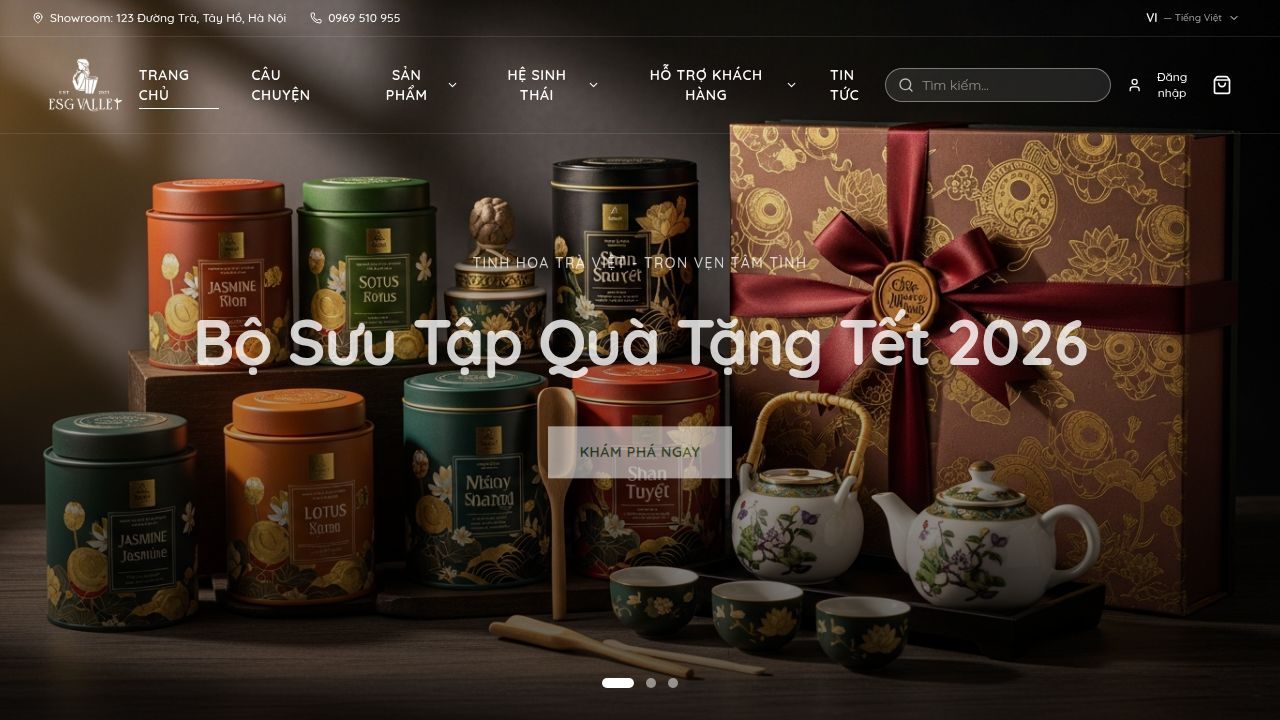
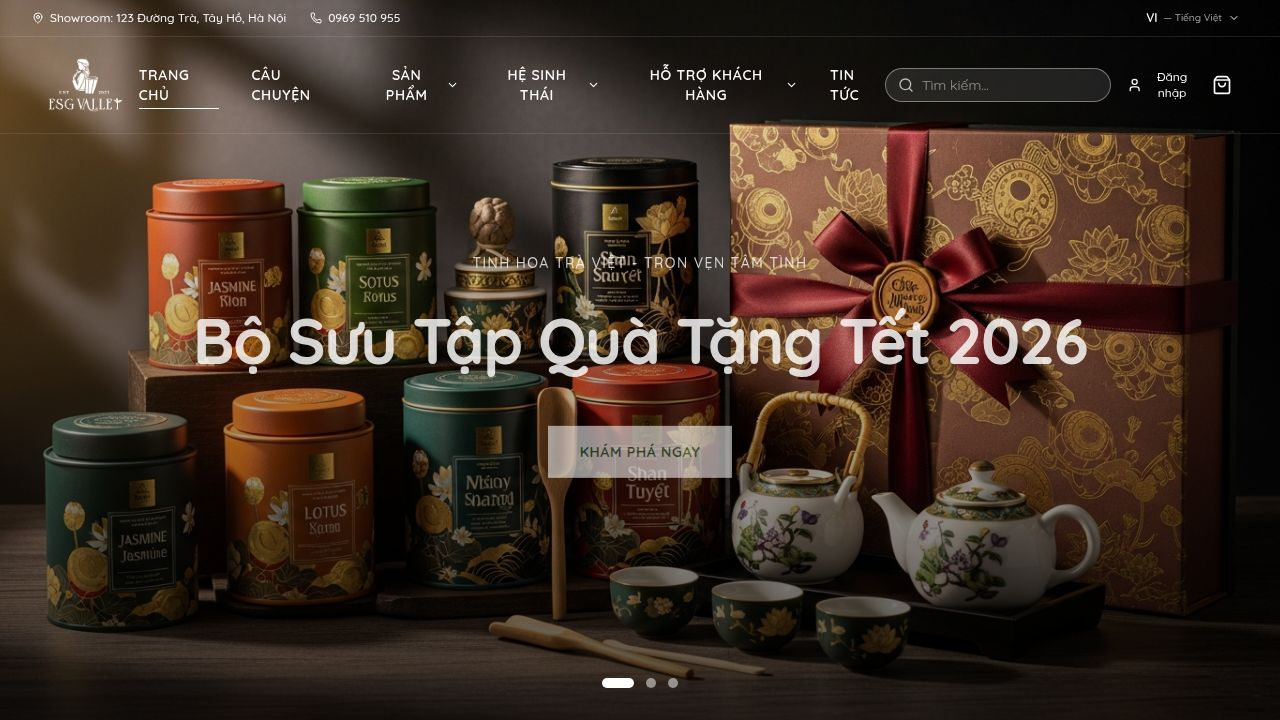
Add links to external articles and image drives at the end of news posts
Update data structure to include `sourceUrl` for news articles and modify the NewsDetail component to conditionally render a button linking to the `sourceUrl`, dynamically changing its appearance and text based on the URL's domain.

Replit-Commit-Author: Agent
Replit-Commit-Session-Id: b6cbccfc-1437-4b4d-ab97-5b8758180aeb
Replit-Commit-Checkpoint-Type: full_checkpoint
Replit-Commit-Event-Id: be6fc535-1c6f-4b54-b364-f1468ea6c6ae
Replit-Commit-Screenshot-Url: https://storage.googleapis.com/screenshot-production-us-central1/b2acf825-3000-41ab-89c8-11b740048c9a/b6cbccfc-1437-4b4d-ab97-5b8758180aeb/OwcyWan
Replit-Helium-Checkpoint-Created: true

diff --git a/artifacts/esg-valley/src/lib/data.ts b/artifacts/esg-valley/src/lib/data.ts
@@ -5,6 +5,18 @@ export interface ProductStory {
   imagePosition?: "left" | "right";
 }
 
+export interface NewsArticle {
+  id: number;
+  slug: string;
+  title: string;
+  date: string;
+  category: string;
+  excerpt: string;
+  image: string;
+  content?: string;
+  sourceUrl?: string;
+}
+
 export interface Product {
   id: number;
   name: string;
@@ -420,7 +432,7 @@ export const products: Product[] = [
   }
 ];
 
-export const news = [
+export const news: NewsArticle[] = [
   {
     id: 1,
     slug: "che-shan-tuyet-bang-phuc-lang-nghe",
@@ -429,7 +441,8 @@ export const news = [
     category: "Bền Vững",
     excerpt: "Xã Đồng Phúc (Thái Nguyên) vừa chính thức đón nhận quyết định công nhận Làng nghề chè Shan tuyết Bằng Phúc – vùng nguyên liệu trọng điểm của ESGValley.",
     image: "https://images.unsplash.com/photo-1587734195503-904fca47e0e9?auto=format&fit=crop&q=80&w=1200",
-    content: `Chúc mừng xã Đồng Phúc (Thái Nguyên) vừa chính thức đón nhận quyết định công nhận Làng nghề chè Shan tuyết Bằng Phúc.\n\nNằm trong danh sách "ngũ đại danh trà" nức tiếng của Thái Nguyên, chè Shan tuyết Bằng Phúc không chỉ là một sản phẩm nông nghiệp mà còn là di sản văn hóa với những gốc trà cổ thụ hàng trăm năm tuổi, thấm đượm tinh hoa đất trời.\n\nĐây cũng chính là vùng nguyên liệu trọng điểm mà ESGValley đang tập trung nghiên cứu và phát triển. Với định hướng phát triển bền vững (ESG), chúng tôi tin rằng việc nâng tầm giá trị trà Shan tuyết không chỉ dừng lại ở chất lượng chén trà, mà còn là câu chuyện bảo tồn hệ sinh thái và nâng cao sinh kế cho bà con địa phương.\n\nCùng ESGValley chờ đón những bước tiến mới cho đặc sản trà Shan tuyết Bằng Phúc vươn xa hơn trên bản đồ trà thế giới!`
+    content: `Chúc mừng xã Đồng Phúc (Thái Nguyên) vừa chính thức đón nhận quyết định công nhận Làng nghề chè Shan tuyết Bằng Phúc.\n\nNằm trong danh sách "ngũ đại danh trà" nức tiếng của Thái Nguyên, chè Shan tuyết Bằng Phúc không chỉ là một sản phẩm nông nghiệp mà còn là di sản văn hóa với những gốc trà cổ thụ hàng trăm năm tuổi, thấm đượm tinh hoa đất trời.\n\nĐây cũng chính là vùng nguyên liệu trọng điểm mà ESGValley đang tập trung nghiên cứu và phát triển. Với định hướng phát triển bền vững (ESG), chúng tôi tin rằng việc nâng tầm giá trị trà Shan tuyết không chỉ dừng lại ở chất lượng chén trà, mà còn là câu chuyện bảo tồn hệ sinh thái và nâng cao sinh kế cho bà con địa phương.\n\nCùng ESGValley chờ đón những bước tiến mới cho đặc sản trà Shan tuyết Bằng Phúc vươn xa hơn trên bản đồ trà thế giới!`,
+    sourceUrl: "https://drive.google.com/drive/folders/1PXENehKDGH7jTDn1pv78iNRkl7Ui6F7W?usp=drive_link"
   },
   {
     id: 2,
@@ -439,7 +452,8 @@ export const news = [
     category: "Cộng Đồng",
     excerpt: "ESG Valley phối hợp cùng UBND xã Đồng Phúc tổ chức chương trình thiện nguyện \"Sữa Kun cho em\", trao tặng 400 thùng sữa đến 7 điểm trường trên địa bàn.",
     image: "https://images.unsplash.com/photo-1542838132-92c53300491e?auto=format&fit=crop&q=80&w=1200",
-    content: `Vừa qua, ESG Valley đã phối hợp cùng UBND xã Đồng Phúc và các đơn vị đồng hành tổ chức chương trình thiện nguyện đầy ý nghĩa mang tên "Sữa Kun cho em". Trong khuôn khổ chương trình, đoàn đã tận tay trao tặng 400 thùng sữa đến các em nhỏ tại 7 điểm trường Mầm non và Tiểu học trên địa bàn xã Đồng Phúc, Thái Nguyên.\n\nĐây không chỉ là món quà về vật chất mà còn là sự chia sẻ, đồng hành của ESG Valley cùng cộng đồng trong việc chăm sóc sức khỏe và dinh dưỡng cho trẻ em vùng cao. Hy vọng những ly sữa ngọt ngào sẽ tiếp thêm năng lượng, giúp các em vui bước đến trường.\n\nHoạt động này càng trở nên ý nghĩa hơn khi Đồng Phúc không chỉ là điểm dừng chân thiện nguyện mà còn là vùng nguyên liệu trọng điểm đang được ESGValley tập trung nghiên cứu và phát triển dòng sản phẩm Chè Shan Tuyết.\n\nCông ty Cổ phần Chè Quân Chu chân thành cảm ơn chính quyền địa phương và các đối tác đã cùng chung tay để chuyến xe yêu thương này cập bến thành công!`
+    content: `Vừa qua, ESG Valley đã phối hợp cùng UBND xã Đồng Phúc và các đơn vị đồng hành tổ chức chương trình thiện nguyện đầy ý nghĩa mang tên "Sữa Kun cho em". Trong khuôn khổ chương trình, đoàn đã tận tay trao tặng 400 thùng sữa đến các em nhỏ tại 7 điểm trường Mầm non và Tiểu học trên địa bàn xã Đồng Phúc, Thái Nguyên.\n\nĐây không chỉ là món quà về vật chất mà còn là sự chia sẻ, đồng hành của ESG Valley cùng cộng đồng trong việc chăm sóc sức khỏe và dinh dưỡng cho trẻ em vùng cao. Hy vọng những ly sữa ngọt ngào sẽ tiếp thêm năng lượng, giúp các em vui bước đến trường.\n\nHoạt động này càng trở nên ý nghĩa hơn khi Đồng Phúc không chỉ là điểm dừng chân thiện nguyện mà còn là vùng nguyên liệu trọng điểm đang được ESGValley tập trung nghiên cứu và phát triển dòng sản phẩm Chè Shan Tuyết.\n\nCông ty Cổ phần Chè Quân Chu chân thành cảm ơn chính quyền địa phương và các đối tác đã cùng chung tay để chuyến xe yêu thương này cập bến thành công!`,
+    sourceUrl: "https://drive.google.com/drive/folders/1zkAlxroYL3uiVLM_SL18RuFQX5KdUNyy"
   },
   {
     id: 3,
@@ -449,7 +463,8 @@ export const news = [
     category: "Sự Kiện",
     excerpt: "Hội nghị \"Doanh nghiệp góp phần vào tăng trưởng hai con số\" ghi dấu sự gắn kết giữa Chính phủ và cộng đồng doanh nhân, với sự tham dự của Chủ tịch HĐQT Công ty Cổ phần Chè Quân Chu.",
     image: "https://images.unsplash.com/photo-1559136555-9303baea8ebd?auto=format&fit=crop&q=80&w=1200",
-    content: `Hội nghị "Doanh nghiệp góp phần vào tăng trưởng hai con số và Thủ tướng Chính phủ tri ân doanh nghiệp" ngày 27/3 ghi dấu sự gắn kết giữa Chính phủ và cộng đồng doanh nhân.\n\nTại sự kiện, Bà Nguyễn Thị Vinh – Chủ tịch Hội nữ doanh nhân tỉnh Thái Nguyên, Chủ tịch HĐQT Công ty Cổ phần Chè Quân Chu đã tham dự cùng nhiều lãnh đạo doanh nghiệp tiêu biểu cả nước, thể hiện quyết tâm đưa kinh tế Việt Nam vươn xa.`
+    content: `Hội nghị "Doanh nghiệp góp phần vào tăng trưởng hai con số và Thủ tướng Chính phủ tri ân doanh nghiệp" ngày 27/3 ghi dấu sự gắn kết giữa Chính phủ và cộng đồng doanh nhân.\n\nTại sự kiện, Bà Nguyễn Thị Vinh – Chủ tịch Hội nữ doanh nhân tỉnh Thái Nguyên, Chủ tịch HĐQT Công ty Cổ phần Chè Quân Chu đã tham dự cùng nhiều lãnh đạo doanh nghiệp tiêu biểu cả nước, thể hiện quyết tâm đưa kinh tế Việt Nam vươn xa.`,
+    sourceUrl: "https://baochinhphu.vn/tang-toc-khoi-nghiep-doanh-nghiep-tro-thanh-tru-cot-tang-truong-10226032711072608.htm"
   },
   {
     id: 4,
@@ -459,7 +474,8 @@ export const news = [
     category: "Bền Vững",
     excerpt: "Nằm ở độ cao hơn 1.200m, những gốc chè Shan tuyết cổ thụ hàng trăm năm tuổi tại xã Đồng Phúc là \"kho báu\" xanh mà ESGValley đang tập trung nghiên cứu.",
     image: "https://images.unsplash.com/photo-1558160074-4d7d8bdf4256?auto=format&fit=crop&q=80&w=1200",
-    content: `Nằm ở độ cao hơn 1.200m, những gốc chè Shan tuyết cổ thụ hàng trăm năm tuổi tại xã Đồng Phúc, Thái Nguyên chính là "kho báu" xanh mà ESGValley đang tập trung nghiên cứu.\n\nĐây không chỉ là vùng nguyên liệu sạch, thuần khiết mà còn là trọng tâm trong chiến lược phát triển nông nghiệp bền vững và bảo tồn giá trị di sản của chúng tôi.`
+    content: `Nằm ở độ cao hơn 1.200m, những gốc chè Shan tuyết cổ thụ hàng trăm năm tuổi tại xã Đồng Phúc, Thái Nguyên chính là "kho báu" xanh mà ESGValley đang tập trung nghiên cứu.\n\nĐây không chỉ là vùng nguyên liệu sạch, thuần khiết mà còn là trọng tâm trong chiến lược phát triển nông nghiệp bền vững và bảo tồn giá trị di sản của chúng tôi.`,
+    sourceUrl: "https://drive.google.com/drive/folders/1rliZFw7um-oEj85Mbu7h4depZdQFJUjh?usp=drive_link"
   },
   {
     id: 5,
@@ -469,7 +485,8 @@ export const news = [
     category: "Văn Hóa",
     excerpt: "Nghệ thuật thưởng Trà không chỉ là việc giải khát – đó là sự hội tụ của kỹ năng pha chế tinh xảo và những triết lý nhân sinh sâu sắc.",
     image: "https://images.unsplash.com/photo-1564890369478-c89ca6d9cde9?auto=format&fit=crop&q=80&w=1200",
-    content: `Bạn có biết tại sao thưởng Trà lại trở thành một môn nghệ thuật đặc biệt không? Bởi nó không chỉ đơn thuần là việc giải khát, mà là sự hội tụ của kỹ năng pha chế tinh xảo, thẩm mỹ Trà cụ và những triết lý nhân sinh sâu sắc.\n\nNghệ thuật thưởng Trà bắt đầu từ việc lựa chọn những nguyên liệu tốt nhất. Người xưa đúc kết quy tắc "Nhất thủy - Nhì Trà - Tam pha - Tứ ấm" để tạo ra một chén Trà hoàn hảo.\n\nNước pha Trà: Phải là nước tinh khiết, lý tưởng nhất là nước suối đầu nguồn hoặc nước sương đọng trên lá sen buổi sớm.\n\nLựa chọn loại trà: Cánh Trà khô phải săn chắc, nhỏ gọn, đều màu. Khi pha ra phải có vị chát dịu đầu lưỡi và hậu ngọt sâu.\n\nKỹ thuật pha: Người pha trà phải khéo léo kiểm soát nhiệt độ nước và thời gian hãm Trà để chiết xuất được hương vị tinh túy nhất.\n\nTrà cụ: Các bộ ấm, chén không chỉ là dụng cụ mà còn là tác phẩm điêu khắc, hội họa.\n\nTại ESGValley, chúng tôi không chỉ trân trọng những giá trị tinh túy của Trà, mà còn khát khao trở thành cầu nối đưa di sản văn hóa Trà vươn xa, gắn kết con người qua từng tách trà nồng đượm.`
+    content: `Bạn có biết tại sao thưởng Trà lại trở thành một môn nghệ thuật đặc biệt không? Bởi nó không chỉ đơn thuần là việc giải khát, mà là sự hội tụ của kỹ năng pha chế tinh xảo, thẩm mỹ Trà cụ và những triết lý nhân sinh sâu sắc.\n\nNghệ thuật thưởng Trà bắt đầu từ việc lựa chọn những nguyên liệu tốt nhất. Người xưa đúc kết quy tắc "Nhất thủy - Nhì Trà - Tam pha - Tứ ấm" để tạo ra một chén Trà hoàn hảo.\n\nNước pha Trà: Phải là nước tinh khiết, lý tưởng nhất là nước suối đầu nguồn hoặc nước sương đọng trên lá sen buổi sớm.\n\nLựa chọn loại trà: Cánh Trà khô phải săn chắc, nhỏ gọn, đều màu. Khi pha ra phải có vị chát dịu đầu lưỡi và hậu ngọt sâu.\n\nKỹ thuật pha: Người pha trà phải khéo léo kiểm soát nhiệt độ nước và thời gian hãm Trà để chiết xuất được hương vị tinh túy nhất.\n\nTrà cụ: Các bộ ấm, chén không chỉ là dụng cụ mà còn là tác phẩm điêu khắc, hội họa.\n\nTại ESGValley, chúng tôi không chỉ trân trọng những giá trị tinh túy của Trà, mà còn khát khao trở thành cầu nối đưa di sản văn hóa Trà vươn xa, gắn kết con người qua từng tách trà nồng đượm.`,
+    sourceUrl: "https://drive.google.com/drive/folders/1UVMu6ClmUK7doaKmn0W3-NhQPRim68uK?usp=drive_link"
   },
   {
     id: 6,
@@ -479,7 +496,8 @@ export const news = [
     category: "Bền Vững",
     excerpt: "ESGValley lựa chọn thời điểm xuân về để xuống giống cây chè – tận dụng tối đa sự giao thoa tuyệt vời của tiết trời, thuận theo tự nhiên và tiết kiệm nguồn lực.",
     image: "/images/su-kien.jpg",
-    content: `ESGValley lựa chọn thời điểm này để bắt đầu xuống giống cây chè với mong muốn tận dụng tối đa sự giao thoa tuyệt vời của tiết trời xuân. Đây không chỉ là việc trồng cây, mà là sự tính toán kỹ lưỡng để:\n\nThuận theo tự nhiên: Độ ẩm và nhiệt độ lý tưởng của mùa xuân giúp cây chè bén rễ nhanh, tỷ lệ sống cao nhất.\n\nTiết kiệm nguồn lực: Giảm thiểu tối đa việc tưới tiêu nhân tạo, tận dụng nguồn nước mưa tự nhiên – đúng tinh thần canh tác bền vững.\n\nKhởi đầu vững chắc: Tạo nền tảng cho những búp chè đạt tiêu chuẩn chất lượng cao nhất trong tương lai.\n\nMỗi mầm xanh xuống đất hôm nay là một cam kết của ESGValley cho một hệ sinh thái nông nghiệp xanh và bền bỉ!`
+    content: `ESGValley lựa chọn thời điểm này để bắt đầu xuống giống cây chè với mong muốn tận dụng tối đa sự giao thoa tuyệt vời của tiết trời xuân. Đây không chỉ là việc trồng cây, mà là sự tính toán kỹ lưỡng để:\n\nThuận theo tự nhiên: Độ ẩm và nhiệt độ lý tưởng của mùa xuân giúp cây chè bén rễ nhanh, tỷ lệ sống cao nhất.\n\nTiết kiệm nguồn lực: Giảm thiểu tối đa việc tưới tiêu nhân tạo, tận dụng nguồn nước mưa tự nhiên – đúng tinh thần canh tác bền vững.\n\nKhởi đầu vững chắc: Tạo nền tảng cho những búp chè đạt tiêu chuẩn chất lượng cao nhất trong tương lai.\n\nMỗi mầm xanh xuống đất hôm nay là một cam kết của ESGValley cho một hệ sinh thái nông nghiệp xanh và bền bỉ!`,
+    sourceUrl: "https://drive.google.com/drive/folders/1UVMu6ClmUK7doaKmn0W3-NhQPRim68uK?usp=drive_link"
   },
   {
     id: 7,
@@ -489,7 +507,8 @@ export const news = [
     category: "Bền Vững",
     excerpt: "Công ty Cổ phần Chè Quân Chu hoàn tất xuống giống cho vùng chè đầu tiên – cột mốc trong lộ trình bảo tồn và nâng tầm giá trị Trà gắn liền với phát triển du lịch bền vững.",
     image: "/images/su-kien.jpg",
-    content: `Công ty Cổ phần Chè Quân Chu vừa hoàn tất công đoạn xuống giống cho vùng chè đầu tiên - một cột mốc quan trọng trong lộ trình bảo tồn và nâng tầm giá trị Trà gắn liền với phát triển du lịch bền vững tại xã Quân Chu, Thái Nguyên.\n\nTại sao chúng tôi chọn sự "tỉ mỉ" làm kim chỉ nam?\n\nGìn giữ nguyên bản: Bảo tồn những giá trị văn hóa Trà truyền thống trước làn sóng công nghiệp hóa.\n\nQuy trình chuẩn mực: Mỗi hố trồng, mỗi bầu cây đều được thực hiện dưới sự giám sát kỹ thuật khắt khe, hướng tới tiêu chuẩn chất lượng cao nhất.\n\nHệ sinh thái Du lịch - Trà: Biến những đồi chè thành điểm đến văn hóa, nơi mỗi nhấp trà đều kể một câu chuyện về sự chăm sóc tận tâm.\n\nESGValley tin rằng, chỉ có sự đầu tư nghiêm túc và trân trọng Di sản mới có thể đưa cây chè vươn xa, không chỉ trên bản đồ nông sản mà còn là điểm sáng trên bản đồ du lịch.`
+    content: `Công ty Cổ phần Chè Quân Chu vừa hoàn tất công đoạn xuống giống cho vùng chè đầu tiên - một cột mốc quan trọng trong lộ trình bảo tồn và nâng tầm giá trị Trà gắn liền với phát triển du lịch bền vững tại xã Quân Chu, Thái Nguyên.\n\nTại sao chúng tôi chọn sự "tỉ mỉ" làm kim chỉ nam?\n\nGìn giữ nguyên bản: Bảo tồn những giá trị văn hóa Trà truyền thống trước làn sóng công nghiệp hóa.\n\nQuy trình chuẩn mực: Mỗi hố trồng, mỗi bầu cây đều được thực hiện dưới sự giám sát kỹ thuật khắt khe, hướng tới tiêu chuẩn chất lượng cao nhất.\n\nHệ sinh thái Du lịch - Trà: Biến những đồi chè thành điểm đến văn hóa, nơi mỗi nhấp trà đều kể một câu chuyện về sự chăm sóc tận tâm.\n\nESGValley tin rằng, chỉ có sự đầu tư nghiêm túc và trân trọng Di sản mới có thể đưa cây chè vươn xa, không chỉ trên bản đồ nông sản mà còn là điểm sáng trên bản đồ du lịch.`,
+    sourceUrl: "https://drive.google.com/drive/folders/13Sx2XOpYqBKwhjOSDYvL71V60G9FCfzo?usp=drive_link"
   },
   {
     id: 8,
@@ -499,7 +518,8 @@ export const news = [
     category: "Bền Vững",
     excerpt: "Nằm dưới chân dãy núi Tam Đảo hùng vĩ, những đồi chè ESGValley tại Phú Xuyên được tưới mát bởi nguồn nước tinh khiết – từ vùng chè đến chén Trà, một hành trình mang đậm ESG.",
     image: "https://images.unsplash.com/photo-1518495973542-4542c06a5843?auto=format&fit=crop&q=80&w=1200",
-    content: `Nằm kiêu hãnh dưới chân dãy núi Tam Đảo hùng vĩ, những đồi chè của ESGValley tại Phú Xuyên được tưới mát quanh năm bởi nguồn nước tinh khiết và trong lành. Từng búp Trà non được nuôi lớn bởi sương sớm, bởi nắng nhẹ, bởi đất lành và còn bởi sự kiên nhẫn của người trồng.\n\nĐi giữa đồi chè Phú Xuyên mới thấm thía và càng thêm tự hào về hành trình của trà Việt, của đất và người Thái Nguyên để cho ra đời những tách Trà thơm đậm vị, mộc mạc và thanh khiết.\n\nTừ vùng chè đến chén Trà - một hành trình mang đậm ESG.`
+    content: `Nằm kiêu hãnh dưới chân dãy núi Tam Đảo hùng vĩ, những đồi chè của ESGValley tại Phú Xuyên được tưới mát quanh năm bởi nguồn nước tinh khiết và trong lành. Từng búp Trà non được nuôi lớn bởi sương sớm, bởi nắng nhẹ, bởi đất lành và còn bởi sự kiên nhẫn của người trồng.\n\nĐi giữa đồi chè Phú Xuyên mới thấm thía và càng thêm tự hào về hành trình của trà Việt, của đất và người Thái Nguyên để cho ra đời những tách Trà thơm đậm vị, mộc mạc và thanh khiết.\n\nTừ vùng chè đến chén Trà - một hành trình mang đậm ESG.`,
+    sourceUrl: "https://drive.google.com/drive/folders/11XWGAnbHwB4th74Sp5k7gxjUj4c_P3S4?usp=drive_link"
   },
   {
     id: 9,
@@ -509,7 +529,8 @@ export const news = [
     category: "Sự Kiện",
     excerpt: "Ngày 11/03/2026, tại UBND xã Quân Chu diễn ra buổi làm việc thống nhất kế hoạch triển khai các dự án đầu tư phát triển vùng chè hữu cơ quy mô lớn.",
     image: "https://images.unsplash.com/photo-1513558161293-cdaf765ed2fd?auto=format&fit=crop&q=80&w=1200",
-    content: `Ngày 11/03/2026, tại UBND xã Quân Chu đã diễn ra buổi làm việc giữa lãnh đạo địa phương và đại diện Công ty Cổ phần Chè Quân Chu (đơn vị sở hữu thương hiệu ESGValley) nhằm thống nhất kế hoạch triển khai các dự án đầu tư, phát triển vùng chè trên địa bàn.\n\nTại buổi làm việc, đại diện Công ty đã báo cáo chi tiết định hướng đầu tư và lộ trình thực hiện các dự án trọng điểm. Lãnh đạo Đảng ủy, UBND xã Quân Chu đánh giá cao năng lực và tâm huyết của doanh nghiệp. Đồng thời, địa phương cam kết sẽ tạo mọi điều kiện thuận lợi về thủ tục và khảo sát thực địa để dự án sớm đi vào vận hành.\n\nViệc hợp tác chặt chẽ giữa chính quyền và doanh nghiệp là bước tiến quan trọng để hình thành vùng nguyên liệu chè hữu cơ quy mô lớn, nâng cao giá trị thương hiệu chè Quân Chu và cải thiện thu nhập bền vững cho người dân vùng dự án.`
+    content: `Ngày 11/03/2026, tại UBND xã Quân Chu đã diễn ra buổi làm việc giữa lãnh đạo địa phương và đại diện Công ty Cổ phần Chè Quân Chu (đơn vị sở hữu thương hiệu ESGValley) nhằm thống nhất kế hoạch triển khai các dự án đầu tư, phát triển vùng chè trên địa bàn.\n\nTại buổi làm việc, đại diện Công ty đã báo cáo chi tiết định hướng đầu tư và lộ trình thực hiện các dự án trọng điểm. Lãnh đạo Đảng ủy, UBND xã Quân Chu đánh giá cao năng lực và tâm huyết của doanh nghiệp. Đồng thời, địa phương cam kết sẽ tạo mọi điều kiện thuận lợi về thủ tục và khảo sát thực địa để dự án sớm đi vào vận hành.\n\nViệc hợp tác chặt chẽ giữa chính quyền và doanh nghiệp là bước tiến quan trọng để hình thành vùng nguyên liệu chè hữu cơ quy mô lớn, nâng cao giá trị thương hiệu chè Quân Chu và cải thiện thu nhập bền vững cho người dân vùng dự án.`,
+    sourceUrl: "https://drive.google.com/drive/folders/1eTTZjAXCTGxbYCfFlDSQphr-pQ08E6A8?usp=drive_link"
   },
   {
     id: 10,
@@ -519,7 +540,8 @@ export const news = [
     category: "Sự Kiện",
     excerpt: "ESGValley hân hạnh đồng hành cùng tiệc Trà Di sản tại sự kiện \"Trà sáng cùng Doanh nhân\" số đầu tiên năm 2026.",
     image: "https://images.unsplash.com/photo-1559136555-9303baea8ebd?auto=format&fit=crop&q=80&w=1200",
-    content: `ESGValley hân hạnh đồng hành cùng tiệc Trà Di sản tại sự kiện "Trà sáng cùng Doanh nhân" số đầu tiên năm 2026 – một buổi sáng kết nối văn hóa Trà và cộng đồng doanh nhân Thái Nguyên.`
+    content: `ESGValley hân hạnh đồng hành cùng tiệc Trà Di sản tại sự kiện "Trà sáng cùng Doanh nhân" số đầu tiên năm 2026 – một buổi sáng kết nối văn hóa Trà và cộng đồng doanh nhân Thái Nguyên.`,
+    sourceUrl: "https://drive.google.com/drive/folders/1tQglN4H_Jror_ke4LAXy0YXxiqeMZRCr?usp=drive_link"
   },
   {
     id: 11,
@@ -529,7 +551,8 @@ export const news = [
     category: "Sự Kiện",
     excerpt: "Tại \"Trà sáng cùng Doanh nhân\" số đầu năm 2026, ESGValley không chỉ là đơn vị đồng hành mà còn là nhà kiến tạo không gian văn hóa Trà, đưa trà Việt thành biểu tượng sang trọng trong giới doanh nhân.",
     image: "https://images.unsplash.com/photo-1564890369478-c89ca6d9cde9?auto=format&fit=crop&q=80&w=1200",
-    content: `Được tổ chức số đầu tiên năm 2026, chương trình "Trà sáng cùng Doanh nhân" với chủ đề "Quy hoạch tỉnh, phát triển đô thị" đã diễn ra trong không gian văn hóa Trà đậm nét đặc trưng của vùng đất danh trà Thái Nguyên vào sáng ngày 07/03/2026 vừa qua.\n\nTại sự kiện, ESGValley không chỉ xuất hiện với tư cách đơn vị đồng hành mà còn đóng vai trò là nhà kiến tạo không gian văn hóa, đưa trà Việt từ thức uống truyền thống trở thành biểu tượng của sự sang trọng và tinh tế trong giới Doanh nhân.\n\nTrong vai trò đơn vị đăng cai tiệc Trà Di sản, ESGValley đã mang đến nghi thức Khai trà đặc biệt với Hồng Trà Shan Tuyết Quýt cổ hữu cơ - sản phẩm nghiên cứu độc quyền của ESGValley và phục vụ xuyên suốt sự kiện với sản phẩm Mạc Triều Trà - Trà xanh hữu cơ thượng hạng.\n\nSự thành công của tiệc Trà Di sản đã chứng minh vai trò tiên phong của ESGValley trong việc định vị lại giá trị Trà Việt – không chỉ là câu chuyện về hương vị mà là chiến lược nâng tầm nông sản địa phương trở thành Đại sứ văn hóa.`
+    content: `Được tổ chức số đầu tiên năm 2026, chương trình "Trà sáng cùng Doanh nhân" với chủ đề "Quy hoạch tỉnh, phát triển đô thị" đã diễn ra trong không gian văn hóa Trà đậm nét đặc trưng của vùng đất danh trà Thái Nguyên vào sáng ngày 07/03/2026 vừa qua.\n\nTại sự kiện, ESGValley không chỉ xuất hiện với tư cách đơn vị đồng hành mà còn đóng vai trò là nhà kiến tạo không gian văn hóa, đưa trà Việt từ thức uống truyền thống trở thành biểu tượng của sự sang trọng và tinh tế trong giới Doanh nhân.\n\nTrong vai trò đơn vị đăng cai tiệc Trà Di sản, ESGValley đã mang đến nghi thức Khai trà đặc biệt với Hồng Trà Shan Tuyết Quýt cổ hữu cơ - sản phẩm nghiên cứu độc quyền của ESGValley và phục vụ xuyên suốt sự kiện với sản phẩm Mạc Triều Trà - Trà xanh hữu cơ thượng hạng.\n\nSự thành công của tiệc Trà Di sản đã chứng minh vai trò tiên phong của ESGValley trong việc định vị lại giá trị Trà Việt – không chỉ là câu chuyện về hương vị mà là chiến lược nâng tầm nông sản địa phương trở thành Đại sứ văn hóa.`,
+    sourceUrl: "https://drive.google.com/drive/folders/1-QHZ-NHThi8o0eO5YCd2XNJBvv5WDkQB?usp=drive_link"
   },
   {
     id: 12,
@@ -539,7 +562,8 @@ export const news = [
     category: "Sản Phẩm",
     excerpt: "Từ độ cao hơn 1.200m trên những đỉnh núi mù sương của xã Đồng Phúc, quần thể chè cổ thụ hàng trăm năm tuổi chắt chiu tinh túy từ đất lành và gió lạnh.",
     image: "https://images.unsplash.com/photo-1558160074-4d7d8bdf4256?auto=format&fit=crop&q=80&w=1200",
-    content: `Từ độ cao hơn 1.200m trên những đỉnh núi mù sương của xã Đồng Phúc, quần thể chè cổ thụ hàng trăm năm tuổi âm thầm bén rễ, chắt chiu tinh túy từ đất lành và gió lạnh. Những búp trà to, phủ lớp lông tơ mịn trắng như tuyết – dấu ấn của sự tinh khiết và sức sống bền bỉ qua bao thế kỷ.\n\nNhấp chén trà đầu, vị tiền chát thanh tao như hơi thở của rừng già; rồi ngay sau đó là vị ngọt hậu sâu lắng, nước trà vàng sánh hương thơm dịu đặc trưng len qua khứu giác rồi lắng lại nơi tâm trí.\n\nTại ESGValley, chúng tôi trân trọng gìn giữ những giá trị di sản ấy trong từng phẩm Trà - để bạn gửi trao không chỉ là một thức uống quý, mà là cả một câu chuyện bảo tồn nguồn gen quý giá của đại ngàn Việt Nam.`
+    content: `Từ độ cao hơn 1.200m trên những đỉnh núi mù sương của xã Đồng Phúc, quần thể chè cổ thụ hàng trăm năm tuổi âm thầm bén rễ, chắt chiu tinh túy từ đất lành và gió lạnh. Những búp trà to, phủ lớp lông tơ mịn trắng như tuyết – dấu ấn của sự tinh khiết và sức sống bền bỉ qua bao thế kỷ.\n\nNhấp chén trà đầu, vị tiền chát thanh tao như hơi thở của rừng già; rồi ngay sau đó là vị ngọt hậu sâu lắng, nước trà vàng sánh hương thơm dịu đặc trưng len qua khứu giác rồi lắng lại nơi tâm trí.\n\nTại ESGValley, chúng tôi trân trọng gìn giữ những giá trị di sản ấy trong từng phẩm Trà - để bạn gửi trao không chỉ là một thức uống quý, mà là cả một câu chuyện bảo tồn nguồn gen quý giá của đại ngàn Việt Nam.`,
+    sourceUrl: "https://drive.google.com/drive/folders/1FJruKa_k4lNnMjHihR_LnkfffTsGuIH9?usp=drive_link"
   },
   {
     id: 13,
@@ -549,7 +573,8 @@ export const news = [
     category: "Sản Phẩm",
     excerpt: "Héo nắng, lên men, sao nhẹ… từng công đoạn thủ công là cách ESGValley giữ trọn vị ngọt hậu và hương thơm tự nhiên trong mỗi tách Trà.",
     image: "https://images.unsplash.com/photo-1500937386664-56d1dfef3854?auto=format&fit=crop&q=80&w=1200",
-    content: `Mỗi búp Trà ESGValley được hái tay khi sương sớm còn vương trên lá là khởi đầu cho hương vị đậm sâu.\n\nHéo nắng, lên men, sao nhẹ… từng công đoạn thủ công là cách ESGValley giữ trọn vị ngọt hậu và hương thơm tự nhiên trong mỗi tách Trà.\n\nĐây là cam kết của chúng tôi: mỗi sản phẩm ESGValley là kết tinh của sự tận tâm, từ đồi chè đến tay bạn.`
+    content: `Mỗi búp Trà ESGValley được hái tay khi sương sớm còn vương trên lá là khởi đầu cho hương vị đậm sâu.\n\nHéo nắng, lên men, sao nhẹ… từng công đoạn thủ công là cách ESGValley giữ trọn vị ngọt hậu và hương thơm tự nhiên trong mỗi tách Trà.\n\nĐây là cam kết của chúng tôi: mỗi sản phẩm ESGValley là kết tinh của sự tận tâm, từ đồi chè đến tay bạn.`,
+    sourceUrl: "https://drive.google.com/drive/folders/1Fncl3GBNxiOTf4j1LcgxIaRNyHNqg57e?usp=drive_link"
   },
   {
     id: 14,
@@ -559,7 +584,8 @@ export const news = [
     category: "Bền Vững",
     excerpt: "Kết thúc hành trình tìm hiểu tại vùng trà Shan tuyết cổ thụ Đồng Phúc – những người trẻ làm trà cổ chia sẻ câu chuyện về di sản đầy bí ẩn đang chờ được đánh thức.",
     image: "https://images.unsplash.com/photo-1587734195503-904fca47e0e9?auto=format&fit=crop&q=80&w=1200",
-    content: `Kết thúc hành trình tìm hiểu và trải nghiệm tại vùng trà Shan tuyết cổ thụ Đồng Phúc. Chúng tôi, những người trẻ làm trà cổ, đã đi qua những vườn chè vắt vẻo lưng chừng núi, lắng nghe những câu chuyện đời, chuyện Trà từ chính hơi thở của người dân bản địa.\n\nNếu La Bằng là bản hùng ca dưới chân núi Tam Đảo, thì Đồng Phúc lại mang vẻ đẹp trầm mặc của một vùng trà Di sản đầy bí ẩn. Nơi đây, những gốc chè cổ thụ hàng trăm năm tuổi vẫn âm thầm cắm sâu rễ vào đất đá, chắt chiu tinh túy từ sương gió Thái Nguyên để tạo nên những búp trà phủ lớp lông tuyết trắng mờ ảo.\n\nTại ESGValley, chúng tôi đang hàng ngày viết tiếp những câu chuyện để lưu giữ và phát huy những giá trị văn hóa truyền thống. Để mỗi tách trà trao đi, không chỉ là thức uống, mà còn là linh hồn của núi rừng và tâm huyết của thế hệ kế thừa.`
+    content: `Kết thúc hành trình tìm hiểu và trải nghiệm tại vùng trà Shan tuyết cổ thụ Đồng Phúc. Chúng tôi, những người trẻ làm trà cổ, đã đi qua những vườn chè vắt vẻo lưng chừng núi, lắng nghe những câu chuyện đời, chuyện Trà từ chính hơi thở của người dân bản địa.\n\nNếu La Bằng là bản hùng ca dưới chân núi Tam Đảo, thì Đồng Phúc lại mang vẻ đẹp trầm mặc của một vùng trà Di sản đầy bí ẩn. Nơi đây, những gốc chè cổ thụ hàng trăm năm tuổi vẫn âm thầm cắm sâu rễ vào đất đá, chắt chiu tinh túy từ sương gió Thái Nguyên để tạo nên những búp trà phủ lớp lông tuyết trắng mờ ảo.\n\nTại ESGValley, chúng tôi đang hàng ngày viết tiếp những câu chuyện để lưu giữ và phát huy những giá trị văn hóa truyền thống. Để mỗi tách trà trao đi, không chỉ là thức uống, mà còn là linh hồn của núi rừng và tâm huyết của thế hệ kế thừa.`,
+    sourceUrl: "https://drive.google.com/drive/folders/1SPXoDU6Q-L6Ke0p6-pHbvumIGaYi4PK8?usp=drive_link"
   },
   {
     id: 15,
@@ -569,7 +595,8 @@ export const news = [
     category: "Sự Kiện",
     excerpt: "ESGValley gửi lời chúc năm mới an yên, đủ đầy đến Quý khách hàng và đối tác – mong bạn vẫn có khoảng lặng để ngồi bên một chén Trà ấm, lắng nghe chính mình.",
     image: "https://images.unsplash.com/photo-1564890369478-c89ca6d9cde9?auto=format&fit=crop&q=80&w=1200",
-    content: `Năm mới gõ cửa, mang theo những hy vọng mới, những dự định mới và thật nhiều điều tốt đẹp đang chờ phía trước.\n\nESGValley xin gửi tới Quý khách hàng và Quý đối tác lời chúc một năm mới an yên, đủ đầy và vững vàng trên mọi hành trình.\n\nGiữa nhịp sống hối hả, mong rằng bạn vẫn có cho mình những khoảng lặng để ngồi lại bên một chén Trà ấm, để lắng nghe chính mình và để bắt đầu năm mới thật nhẹ nhàng.\n\nMột chén Trà đầu năm không chỉ để uống mà để chúc nhau bình an, khai mở năng lượng tốt và giữ tâm thế an hòa cho cả chặng đường dài phía trước.\n\nCảm ơn bạn đã lựa chọn và đồng hành cùng ESGValley trong suốt thời gian qua.`
+    content: `Năm mới gõ cửa, mang theo những hy vọng mới, những dự định mới và thật nhiều điều tốt đẹp đang chờ phía trước.\n\nESGValley xin gửi tới Quý khách hàng và Quý đối tác lời chúc một năm mới an yên, đủ đầy và vững vàng trên mọi hành trình.\n\nGiữa nhịp sống hối hả, mong rằng bạn vẫn có cho mình những khoảng lặng để ngồi lại bên một chén Trà ấm, để lắng nghe chính mình và để bắt đầu năm mới thật nhẹ nhàng.\n\nMột chén Trà đầu năm không chỉ để uống mà để chúc nhau bình an, khai mở năng lượng tốt và giữ tâm thế an hòa cho cả chặng đường dài phía trước.\n\nCảm ơn bạn đã lựa chọn và đồng hành cùng ESGValley trong suốt thời gian qua.`,
+    sourceUrl: "https://drive.google.com/drive/folders/16O6sPAvmDlBS5bpF_QwBsWNH3dHSYQR1?usp=drive_link"
   },
   {
     id: 16,
@@ -589,7 +616,8 @@ export const news = [
     category: "Sản Phẩm",
     excerpt: "Tết này, ESGValley mang đến 3 set Trà chế biến thủ công từ Nghệ nhân để cả nhà cùng thưởng trà sum vầy những ngày đầu năm.",
     image: "https://images.unsplash.com/photo-1558160074-4d7d8bdf4256?auto=format&fit=crop&q=80&w=1200",
-    content: `Tết này, bạn chọn phẩm Trà nào để cùng gia đình sum vầy, nhâm nhi thưởng Trà và tâm sự những ngày đầu năm?\n\nESGValley mang đến cho bạn 3 set Trà chế biến thủ công hoàn toàn từ Nghệ nhân được thiết kế riêng theo hương vị Trà yêu thích:\n\nSet Tản Viên Trà: Trà xanh hữu cơ thượng hạng tiết Lập Xuân (360g & 120g)\n\nSet Mạc Triều Trà: Trà xanh hữu cơ thượng hạng tiết Cốc Vũ (320g & 120g)\n\nSet Bách Niên Trà: Trà xanh hữu cơ thượng hạng tiết Thu phân Hàn Lộ (320g & 120g)\n\nTết đến, đừng để bàn Trà thiếu đi một vị ngon. Nhắn ESGValley để chọn vị ưng ý nhé!`
+    content: `Tết này, bạn chọn phẩm Trà nào để cùng gia đình sum vầy, nhâm nhi thưởng Trà và tâm sự những ngày đầu năm?\n\nESGValley mang đến cho bạn 3 set Trà chế biến thủ công hoàn toàn từ Nghệ nhân được thiết kế riêng theo hương vị Trà yêu thích:\n\nSet Tản Viên Trà: Trà xanh hữu cơ thượng hạng tiết Lập Xuân (360g & 120g)\n\nSet Mạc Triều Trà: Trà xanh hữu cơ thượng hạng tiết Cốc Vũ (320g & 120g)\n\nSet Bách Niên Trà: Trà xanh hữu cơ thượng hạng tiết Thu phân Hàn Lộ (320g & 120g)\n\nTết đến, đừng để bàn Trà thiếu đi một vị ngon. Nhắn ESGValley để chọn vị ưng ý nhé!`,
+    sourceUrl: "https://drive.google.com/drive/folders/1BJTZ9zOluP9VxUK7xk-5JXzo0iDdyBuK?usp=drive_link"
   },
   {
     id: 18,
@@ -599,7 +627,8 @@ export const news = [
     category: "Văn Hóa",
     excerpt: "Ở ESGValley, thưởng trà là cách ta bước chậm để nghe nhịp thở của đất trời. Mỗi mùa có một sắc thái riêng – chọn đúng trà, lòng người cũng nhẹ.",
     image: "https://images.unsplash.com/photo-1564890369478-c89ca6d9cde9?auto=format&fit=crop&q=80&w=1200",
-    content: `Ở ESGValley, thưởng trà là cách ta bước chậm để nghe nhịp thở của đất trời. Mỗi mùa có một sắc thái riêng; chọn đúng trà, lòng người cũng nhẹ.\n\nXuân: Sớm xuân còn se – một chén Hồng trà ấm nồng cho ngày mới hanh thông. Thích sự tinh khiết, mời Bạch trà – vị nhẹ, lay thức vị giác như mầm non vừa tỉnh.\n\nHạ: Nắng rộn ràng, tìm về những thức trà thanh: Trà xanh hoặc Trà hoa. Hương trong, vị mát, giữ tinh thần tươi rói suốt ngày dài.\n\nThu: Gió hanh khô, hợp nhất là Ô long. Trà ôn hòa, không nóng không lạnh, hương dịu, hậu ngọt nhẹ nhàng.\n\nĐông: Tiết lạnh, cần ấm lòng: Hồng trà hoặc Phổ Nhĩ. Vị dầy, ủ ấm cơ thể, cho buổi chiều chậm lại bên ấm trà nghi ngút.\n\nTrà không chỉ để uống - trà là cách ta thuận mùa, thuận mình.`
+    content: `Ở ESGValley, thưởng trà là cách ta bước chậm để nghe nhịp thở của đất trời. Mỗi mùa có một sắc thái riêng; chọn đúng trà, lòng người cũng nhẹ.\n\nXuân: Sớm xuân còn se – một chén Hồng trà ấm nồng cho ngày mới hanh thông. Thích sự tinh khiết, mời Bạch trà – vị nhẹ, lay thức vị giác như mầm non vừa tỉnh.\n\nHạ: Nắng rộn ràng, tìm về những thức trà thanh: Trà xanh hoặc Trà hoa. Hương trong, vị mát, giữ tinh thần tươi rói suốt ngày dài.\n\nThu: Gió hanh khô, hợp nhất là Ô long. Trà ôn hòa, không nóng không lạnh, hương dịu, hậu ngọt nhẹ nhàng.\n\nĐông: Tiết lạnh, cần ấm lòng: Hồng trà hoặc Phổ Nhĩ. Vị dầy, ủ ấm cơ thể, cho buổi chiều chậm lại bên ấm trà nghi ngút.\n\nTrà không chỉ để uống - trà là cách ta thuận mùa, thuận mình.`,
+    sourceUrl: "https://drive.google.com/drive/folders/179bpxZOr2H437OlxmzgaX2KPgDLE1_G2?usp=drive_link"
   },
   {
     id: 19,
@@ -609,7 +638,8 @@ export const news = [
     category: "Sự Kiện",
     excerpt: "Tại Lễ ra mắt Sigma International Bilingual School, ESGValley vinh dự đồng hành tổ chức không gian Tiệc Trà Di sản – điểm nhấn độc đáo đưa tinh hoa văn hóa Trà đến gần giáo dục hiện đại.",
     image: "https://images.unsplash.com/photo-1513558161293-cdaf765ed2fd?auto=format&fit=crop&q=80&w=1200",
-    content: `Vừa qua, tại Lễ ra mắt Sigma International Bilingual School, ESGValley vinh dự đồng hành tổ chức không gian Tiệc Trà Di sản – một điểm nhấn độc đáo và mới mẻ trong văn hóa sự kiện tại Thái Nguyên.\n\nThay vì những tiệc trà nhanh thường thấy, ESGValley mang đến một trải nghiệm tĩnh tại, nơi tinh hoa văn hoá Trà được kết nối cùng hơi thở giáo dục hiện đại. Từng chén Trà thơm nồng được khơi nguồn từ những vùng chè hữu cơ đã trở thành cầu nối văn hóa, đưa Di sản dân tộc đến gần hơn với cộng đồng quốc tế và thế hệ trẻ.\n\nSự hiện diện của Trà Di sản tại Sigma School không chỉ tôn vinh giá trị bản địa mà còn khẳng định sứ mệnh của ESGValley: Đưa văn hóa Trà Việt len lỏi vào mọi không gian sống, từ những bản làng xa xôi đến môi trường giáo dục hiện đại.`
+    content: `Vừa qua, tại Lễ ra mắt Sigma International Bilingual School, ESGValley vinh dự đồng hành tổ chức không gian Tiệc Trà Di sản – một điểm nhấn độc đáo và mới mẻ trong văn hóa sự kiện tại Thái Nguyên.\n\nThay vì những tiệc trà nhanh thường thấy, ESGValley mang đến một trải nghiệm tĩnh tại, nơi tinh hoa văn hoá Trà được kết nối cùng hơi thở giáo dục hiện đại. Từng chén Trà thơm nồng được khơi nguồn từ những vùng chè hữu cơ đã trở thành cầu nối văn hóa, đưa Di sản dân tộc đến gần hơn với cộng đồng quốc tế và thế hệ trẻ.\n\nSự hiện diện của Trà Di sản tại Sigma School không chỉ tôn vinh giá trị bản địa mà còn khẳng định sứ mệnh của ESGValley: Đưa văn hóa Trà Việt len lỏi vào mọi không gian sống, từ những bản làng xa xôi đến môi trường giáo dục hiện đại.`,
+    sourceUrl: "https://drive.google.com/drive/folders/1UjbgRSU2BA9LvHgjWr2n4NkfSUbFzKJE?usp=drive_link"
   },
   {
     id: 20,
@@ -619,7 +649,8 @@ export const news = [
     category: "Sản Phẩm",
     excerpt: "Hương vị trà xanh thuần khiết không đến từ sự ngẫu nhiên – đó là hành trình bền bỉ từ vùng trồng lý tưởng, khí hậu và nguồn nước, đến lá trà tuyển chọn thủ công.",
     image: "https://images.unsplash.com/photo-1518495973542-4542c06a5843?auto=format&fit=crop&q=80&w=1200",
-    content: `Hương vị trà xanh thuần khiết không đến từ sự ngẫu nhiên. Đó là một hành trình bền bỉ, nơi ESGValley trân trọng từng món quà mà thiên nhiên ban tặng:\n\nVùng trồng lý tưởng: Từ những đồi chè xanh mướt tại vùng nguyên liệu hữu cơ, nơi thổ nhưỡng giàu dưỡng chất nuôi lớn từng mầm xanh.\n\nKhí hậu và nguồn nước: Sự kết hợp hoàn hảo giữa khí hậu mát lành và những giọt sương sớm tinh khôi tạo nên Trà trong trẻo, không vẩn đục.\n\nLá trà tuyển chọn: Chỉ những búp chè tươi ngon nhất mới được thu hái thủ công để giữ trọn vẹn lớp lông tơ và dưỡng chất quý giá.\n\nMỗi sản phẩm ESGValley là một lời cam kết về chất lượng: sạch từ nguồn gốc, chuẩn từ quy trình và trọn vẹn ở hậu vị.`
+    content: `Hương vị trà xanh thuần khiết không đến từ sự ngẫu nhiên. Đó là một hành trình bền bỉ, nơi ESGValley trân trọng từng món quà mà thiên nhiên ban tặng:\n\nVùng trồng lý tưởng: Từ những đồi chè xanh mướt tại vùng nguyên liệu hữu cơ, nơi thổ nhưỡng giàu dưỡng chất nuôi lớn từng mầm xanh.\n\nKhí hậu và nguồn nước: Sự kết hợp hoàn hảo giữa khí hậu mát lành và những giọt sương sớm tinh khôi tạo nên Trà trong trẻo, không vẩn đục.\n\nLá trà tuyển chọn: Chỉ những búp chè tươi ngon nhất mới được thu hái thủ công để giữ trọn vẹn lớp lông tơ và dưỡng chất quý giá.\n\nMỗi sản phẩm ESGValley là một lời cam kết về chất lượng: sạch từ nguồn gốc, chuẩn từ quy trình và trọn vẹn ở hậu vị.`,
+    sourceUrl: "https://drive.google.com/drive/folders/1CGXqgo0e3EZXM8wX_ZOZfxeA8S-CMAbY?usp=drive_link"
   },
   {
     id: 21,
@@ -629,7 +660,8 @@ export const news = [
     category: "Sự Kiện",
     excerpt: "Tại Hội nghị liên kết 3 tỉnh Thái Nguyên – Bắc Ninh – Phú Thọ, ESGValley vinh dự là đơn vị đồng hành phục vụ không gian tiệc Trà Di sản cho các đại biểu.",
     image: "https://images.unsplash.com/photo-1559136555-9303baea8ebd?auto=format&fit=crop&q=80&w=1200",
-    content: `Tại Hội nghị liên kết 3 tỉnh Thái Nguyên – Bắc Ninh – Phú Thọ vừa diễn ra tại phường Vạn Xuân, ESGValley vinh dự là đơn vị đồng hành, phục vụ không gian tiệc Trà Di sản cho các đại biểu.\n\nGiữa những phiên thảo luận quan trọng, một tách Trà nóng hổi với hương thơm thanh tao không chỉ giúp làm dịu tinh thần mà còn là cầu nối gắn kết tình thân giữa các tỉnh bạn. Chúng tôi tin rằng, sự chỉn chu trong từng tách Trà chính là lời chào nồng hậu nhất, minh chứng cho tầm vóc của "Đệ nhất danh trà" trong kỷ nguyên mới.\n\nESGValley tự hào được góp phần quảng bá thương hiệu trà Thái Nguyên vươn xa, khẳng định giá trị Di sản trong các sự kiện ngoại giao và kinh tế trọng điểm.`
+    content: `Tại Hội nghị liên kết 3 tỉnh Thái Nguyên – Bắc Ninh – Phú Thọ vừa diễn ra tại phường Vạn Xuân, ESGValley vinh dự là đơn vị đồng hành, phục vụ không gian tiệc Trà Di sản cho các đại biểu.\n\nGiữa những phiên thảo luận quan trọng, một tách Trà nóng hổi với hương thơm thanh tao không chỉ giúp làm dịu tinh thần mà còn là cầu nối gắn kết tình thân giữa các tỉnh bạn. Chúng tôi tin rằng, sự chỉn chu trong từng tách Trà chính là lời chào nồng hậu nhất, minh chứng cho tầm vóc của "Đệ nhất danh trà" trong kỷ nguyên mới.\n\nESGValley tự hào được góp phần quảng bá thương hiệu trà Thái Nguyên vươn xa, khẳng định giá trị Di sản trong các sự kiện ngoại giao và kinh tế trọng điểm.`,
+    sourceUrl: "https://drive.google.com/drive/folders/1jZ8tt2jm4K4lFZOqLWy70kGpZbvLPrmD?usp=drive_link"
   },
   {
     id: 22,
@@ -639,7 +671,8 @@ export const news = [
     category: "Bền Vững",
     excerpt: "10 tiếng đồng hồ. 10km rừng dốc ngược. 1.350 mét độ cao – hành trình của đoàn công tác ESGValley tìm về cội nguồn Di sản chè cổ thụ La Bằng, Thái Nguyên.",
     image: "https://images.unsplash.com/photo-1518495973542-4542c06a5843?auto=format&fit=crop&q=80&w=1200",
-    content: `10 tiếng đồng hồ. 10km rừng dốc ngược. 1.350 mét độ cao. Những con số ấy không chỉ đo đạc quãng đường, mà đo độ bền bỉ của những trái tim khao khát tìm về cội nguồn của Di sản.\n\nĐoàn công tác của chúng tôi đã bước đi từ chân suối Kẹm, vượt qua những con đường trở đầy thách thức: vách đá cheo leo, thác nước ầm ào, đất rừng ẩm ướt trơn trượt.\n\nNhưng khi đứng trước quần thể chè Tổ tại xã La Bằng, mọi mệt mỏi dường như tan biến. Trên dãy Tam Đảo hùng vĩ, giữa tầng sương mù bao phủ, những cây chè cổ thụ hàng trăm năm tuổi đứng đó như những vị thần gác rừng. Thân cây xù xì, rêu phong phủ đầy, cành lá vươn cao ngạo nghễ.\n\nĐể giữ được giấc mơ xanh này, ESGValley đang thiết lập các cơ chế giám sát và nghiên cứu khoa học chuyên sâu, đảm bảo nguồn gen chè Tổ không bao giờ bị mất đi. Giữ được rừng chè là giữ được văn hóa, giữ được sinh thái và giữ được một biểu tượng đặc biệt ý nghĩa đối với ngành chè Thái Nguyên.`
+    content: `10 tiếng đồng hồ. 10km rừng dốc ngược. 1.350 mét độ cao. Những con số ấy không chỉ đo đạc quãng đường, mà đo độ bền bỉ của những trái tim khao khát tìm về cội nguồn của Di sản.\n\nĐoàn công tác của chúng tôi đã bước đi từ chân suối Kẹm, vượt qua những con đường trở đầy thách thức: vách đá cheo leo, thác nước ầm ào, đất rừng ẩm ướt trơn trượt.\n\nNhưng khi đứng trước quần thể chè Tổ tại xã La Bằng, mọi mệt mỏi dường như tan biến. Trên dãy Tam Đảo hùng vĩ, giữa tầng sương mù bao phủ, những cây chè cổ thụ hàng trăm năm tuổi đứng đó như những vị thần gác rừng. Thân cây xù xì, rêu phong phủ đầy, cành lá vươn cao ngạo nghễ.\n\nĐể giữ được giấc mơ xanh này, ESGValley đang thiết lập các cơ chế giám sát và nghiên cứu khoa học chuyên sâu, đảm bảo nguồn gen chè Tổ không bao giờ bị mất đi. Giữ được rừng chè là giữ được văn hóa, giữ được sinh thái và giữ được một biểu tượng đặc biệt ý nghĩa đối với ngành chè Thái Nguyên.`,
+    sourceUrl: "https://drive.google.com/drive/folders/1R8-VwtjGqik-4Dh2ayFVkrjds3Fz7uee?usp=drive_link"
   },
   {
     id: 23,
@@ -649,7 +682,8 @@ export const news = [
     category: "Văn Hóa",
     excerpt: "Thứ nhất là để giữ hương Trà. Thứ hai là để dễ thưởng Trà hơn. Và còn một điều khá hay nữa trong Văn hóa Trà mà ít người biết...",
     image: "https://images.unsplash.com/photo-1564890369478-c89ca6d9cde9?auto=format&fit=crop&q=80&w=1200",
-    content: `Nhiều người lần đầu ngồi uống Trà thường hỏi một câu khá thú vị: "Vì sao chén Trà lúc nào cũng chỉ rót lưng lưng, không rót đầy?"\n\nThật ra đây là một thói quen rất lâu trong Văn hoá uống Trà.\n\nThứ nhất là để giữ hương Trà. Khi rót vừa chén, phần hương sẽ còn khoảng trống để lan lên. Cầm chén Trà lên, mình sẽ cảm nhận được mùi thơm trước rồi mới đến vị trà. Nếu rót đầy quá thì hương sẽ khó thoát ra.\n\nThứ hai là để dễ thưởng Trà hơn. Chén Trà thường nhỏ và nước khá nóng, rót vừa phải giúp mình cầm chén thoải mái, nhấp từng ngụm nhỏ để cảm nhận vị Trà rõ hơn.\n\nVà một điều nữa khá hay: trong Văn hoá Trà, chén Trà không cần đầy nhưng câu chuyện thì luôn đầy. Người ta ngồi lại với nhau vì chén Trà, nhưng thứ ở lại lâu hơn thường là những cuộc trò chuyện.\n\nNếu có dịp, bạn ghé ESGValley ngồi uống một chén Trà nhé. Có khi chỉ cần một chén Trà nhỏ thôi là đủ để bắt đầu một câu chuyện hay.`
+    content: `Nhiều người lần đầu ngồi uống Trà thường hỏi một câu khá thú vị: "Vì sao chén Trà lúc nào cũng chỉ rót lưng lưng, không rót đầy?"\n\nThật ra đây là một thói quen rất lâu trong Văn hoá uống Trà.\n\nThứ nhất là để giữ hương Trà. Khi rót vừa chén, phần hương sẽ còn khoảng trống để lan lên. Cầm chén Trà lên, mình sẽ cảm nhận được mùi thơm trước rồi mới đến vị trà. Nếu rót đầy quá thì hương sẽ khó thoát ra.\n\nThứ hai là để dễ thưởng Trà hơn. Chén Trà thường nhỏ và nước khá nóng, rót vừa phải giúp mình cầm chén thoải mái, nhấp từng ngụm nhỏ để cảm nhận vị Trà rõ hơn.\n\nVà một điều nữa khá hay: trong Văn hoá Trà, chén Trà không cần đầy nhưng câu chuyện thì luôn đầy. Người ta ngồi lại với nhau vì chén Trà, nhưng thứ ở lại lâu hơn thường là những cuộc trò chuyện.\n\nNếu có dịp, bạn ghé ESGValley ngồi uống một chén Trà nhé. Có khi chỉ cần một chén Trà nhỏ thôi là đủ để bắt đầu một câu chuyện hay.`,
+    sourceUrl: "https://drive.google.com/drive/folders/1kDi01ZpcXVW4hBwoCWsAO_nUHvPleyFA?usp=drive_link"
   },
   {
     id: 24,
@@ -659,7 +693,8 @@ export const news = [
     category: "Sự Kiện",
     excerpt: "Tại ViPEL 2025, UBND tỉnh Thái Nguyên trao văn kiện hợp tác thí điểm mô hình Công - Tư đồng kiến quốc cho dự án phát triển nông nghiệp hữu cơ và bảo tồn di sản chè của Công ty Cổ phần Chè Quân Chu.",
     image: "https://images.unsplash.com/photo-1513558161293-cdaf765ed2fd?auto=format&fit=crop&q=80&w=1200",
-    content: `Một chương mới cho ngành trà Thái Nguyên đã chính thức mở ra trong khuôn khổ Chương trình Toàn cảnh Kinh tế tư nhân Việt Nam (ViPEL 2025) diễn ra vào ngày 10/10/2025.\n\nUBND tỉnh Thái Nguyên đã chính thức trao văn kiện hợp tác thí điểm mô hình "Công - Tư đồng kiến quốc" cho dự án: "Phát triển nông nghiệp hữu cơ, bảo tồn di sản và du lịch văn hóa gắn với cây chè của tỉnh Thái Nguyên" thuộc Công ty Cổ phần Chè Quân Chu – đơn vị đầu tiên trong khuôn khổ ViPEL 2025.\n\nDự án ESGValley không chỉ dừng lại ở phát triển kinh tế mà còn là hành trình bảo tồn những "di sản sống" ngàn năm. Với sự dẫn dắt của TS. Nguyễn Thị Vinh – Chủ tịch HĐQT Công ty Cổ phần Chè Quân Chu, ESG Valley cam kết:\n\nPhát triển nông nghiệp hữu cơ và chuyển đổi số toàn diện, tích hợp công nghệ IoT và AI, minh bạch hóa hành trình của búp trà từ đồi xanh đến bàn trà quốc tế.\n\nXây dựng mô hình kinh tế nhân văn, hỗ trợ 200.000 nông hộ và HTX do phụ nữ làm chủ chuyển đổi sang mô hình doanh nghiệp bền vững ESG.\n\nESG Valley và Đề án ViPEL 2025 chính là minh chứng cho một Việt Nam tự hào, nơi trí tuệ và lòng nhân ái hòa quyện để đưa giá trị xanh – thông minh – giàu bản sắc vươn tầm thế giới.`
+    content: `Một chương mới cho ngành trà Thái Nguyên đã chính thức mở ra trong khuôn khổ Chương trình Toàn cảnh Kinh tế tư nhân Việt Nam (ViPEL 2025) diễn ra vào ngày 10/10/2025.\n\nUBND tỉnh Thái Nguyên đã chính thức trao văn kiện hợp tác thí điểm mô hình "Công - Tư đồng kiến quốc" cho dự án: "Phát triển nông nghiệp hữu cơ, bảo tồn di sản và du lịch văn hóa gắn với cây chè của tỉnh Thái Nguyên" thuộc Công ty Cổ phần Chè Quân Chu – đơn vị đầu tiên trong khuôn khổ ViPEL 2025.\n\nDự án ESGValley không chỉ dừng lại ở phát triển kinh tế mà còn là hành trình bảo tồn những "di sản sống" ngàn năm. Với sự dẫn dắt của TS. Nguyễn Thị Vinh – Chủ tịch HĐQT Công ty Cổ phần Chè Quân Chu, ESG Valley cam kết:\n\nPhát triển nông nghiệp hữu cơ và chuyển đổi số toàn diện, tích hợp công nghệ IoT và AI, minh bạch hóa hành trình của búp trà từ đồi xanh đến bàn trà quốc tế.\n\nXây dựng mô hình kinh tế nhân văn, hỗ trợ 200.000 nông hộ và HTX do phụ nữ làm chủ chuyển đổi sang mô hình doanh nghiệp bền vững ESG.\n\nESG Valley và Đề án ViPEL 2025 chính là minh chứng cho một Việt Nam tự hào, nơi trí tuệ và lòng nhân ái hòa quyện để đưa giá trị xanh – thông minh – giàu bản sắc vươn tầm thế giới.`,
+    sourceUrl: "https://drive.google.com/drive/folders/1kDmxGxYmcjv3WLNUMV80zvhEvgiqOjJY?usp=drive_link"
   }
 ];
 

diff --git a/artifacts/esg-valley/src/pages/NewsDetail.tsx b/artifacts/esg-valley/src/pages/NewsDetail.tsx
@@ -1,7 +1,7 @@
 import { useParams, useLocation } from "wouter";
 import { motion } from "framer-motion";
-import { ArrowLeft, Share2 } from "lucide-react";
-import { news } from "@/lib/data";
+import { ArrowLeft, Share2, ExternalLink, Images } from "lucide-react";
+import { news, NewsArticle } from "@/lib/data";
 
 function formatDateBadge(dateStr: string) {
   const [d, m] = dateStr.split("/");
@@ -128,6 +128,31 @@ export default function NewsDetail() {
             </p>
           ))}
         </motion.div>
+
+        {/* ── SOURCE LINK ── */}
+        {article.sourceUrl && (
+          <div className="flex justify-center mb-10">
+            <a
+              href={article.sourceUrl}
+              target="_blank"
+              rel="noopener noreferrer"
+              className="inline-flex items-center gap-3 font-semibold transition-all hover:opacity-80 hover:scale-105"
+              style={{
+                background: article.sourceUrl.includes("drive.google.com") ? "#5F9654" : "#C9A84C",
+                color: "#FFFFFF",
+                borderRadius: "12px",
+                padding: "14px 28px",
+                fontSize: "18px",
+              }}
+            >
+              {article.sourceUrl.includes("drive.google.com") ? (
+                <><Images className="w-5 h-5" /> Xem hình ảnh</>
+              ) : (
+                <><ExternalLink className="w-5 h-5" /> Đọc bài báo gốc</>
+              )}
+            </a>
+          </div>
+        )}
 
         {/* ── SHARE ── */}
         <div className="flex justify-center mb-20">